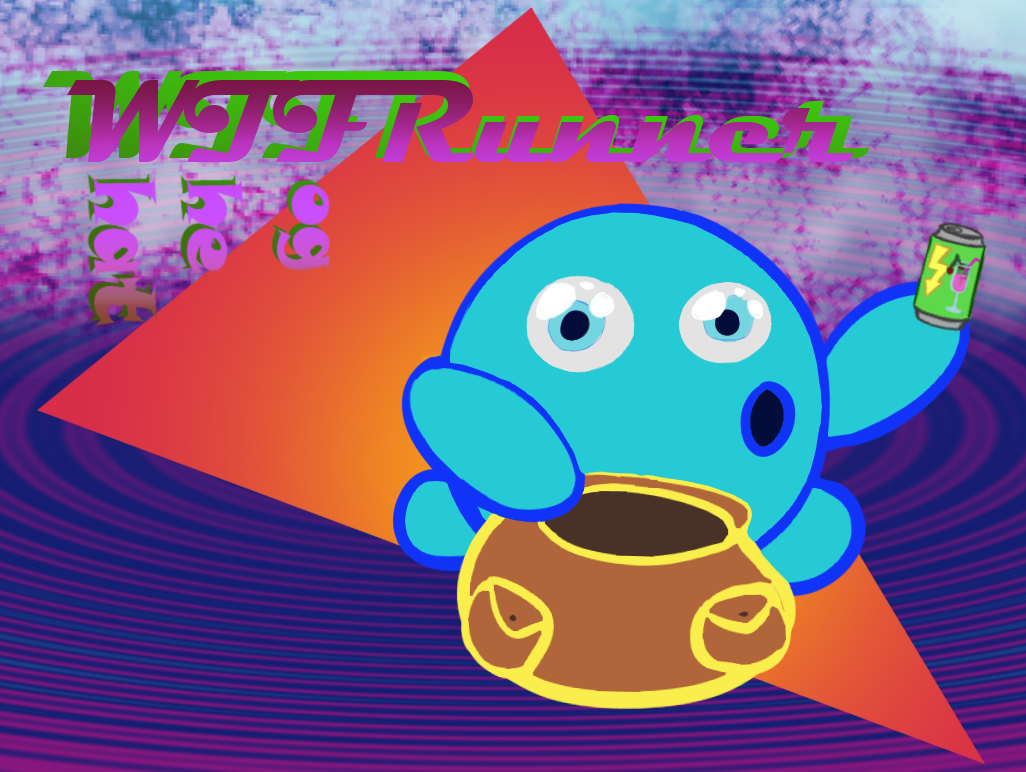
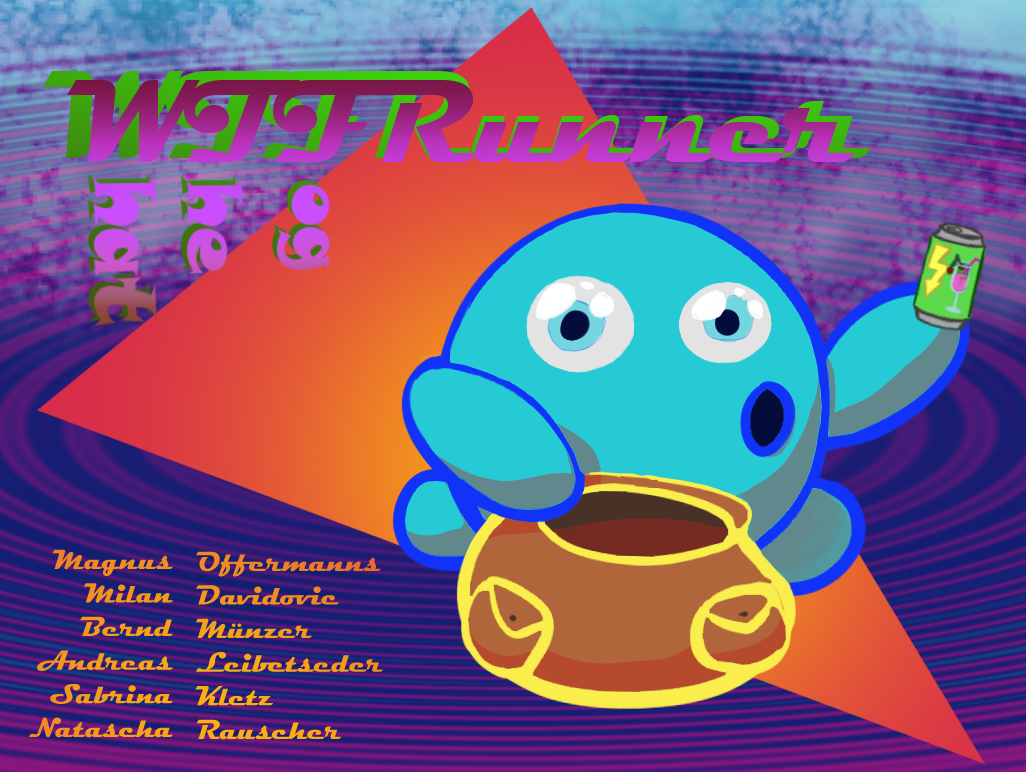
update title

diff --git a/app/scripts/scenes/title.js b/app/scripts/scenes/title.js
@@ -15,11 +15,36 @@ export default class Title extends Phaser.Scene {
    *  @param {object} [data={}] - Initialization parameters.
    */
   create(/* data */) {
+      
     const x_mid = this.cameras.main.width / 2;
     const y_mid = this.cameras.main.height / 2;
 
-    this.add.image(0, 0, 'intro-screen').setOrigin(0).setScale(0.9);
-
+    var introScreen = this.add.image(0, 0, 'intro-screen').setOrigin(0);
+    
+    this.dancingChar = this.add.sprite(introScreen.width/4, introScreen.height/2, 'dance');
+    this.powerUpCan = this.add.sprite(introScreen.width/3, introScreen.height/2, 'powerUp');
+    
+    this.anims.create({
+      key: 'spin_can',
+      frames: this.anims.generateFrameNumbers('powerUp', { start: 0, end: 3 }),
+      frameRate: 10,
+      repeat: -1
+    });
+    
+    this.anims.create({
+      key: 'dance',
+      frames: this.anims.generateFrameNumbers('player', {frames: [1,2,3,2,1,6,5,4,5,6]}),
+      frameRate: 10,
+      repeat: -1
+    });
+    
+    this.powerUpCan.anims.play('spin_can',true);
+    this.powerUpCan.rotation = 0.2;
+    
+    this.dancingChar.anims.play('dance',true);
+    this.dancingChar.rotation = 0.5;
+    
+   
   }
 
   /**
@@ -30,5 +55,8 @@ export default class Title extends Phaser.Scene {
    *  @param {number} dt - Time elapsed since last update.
    */
   update(/* t, dt */) {
+      
+      //this.dancingChar.rotation = this.dancingChar.rotation + 0.01;
+        
   }
 }

diff --git a/app/scripts/scenes/gameover.js b/app/scripts/scenes/gameover.js
@@ -23,7 +23,10 @@ export default class Gameover extends Phaser.Scene {
   create(/* data */) {
     const x_mid = this.cameras.main.width / 2;
     const y_mid = this.cameras.main.height / 2;
-    let msg = 'GAME OVER!\nScore: '+ this.endScore+'';
+    
+    this.add.image(0, 0, 'gameover').setOrigin(0);
+    
+    let msg = 'Score: '+ this.endScore+'';
     const label = this.add.text(x_mid, y_mid, msg, {
       font: '40px Arial',
       color: 'white',
@@ -31,6 +34,7 @@ export default class Gameover extends Phaser.Scene {
       strokeThickness: 6
     });
     label.setOrigin(0.5, 0.5);
+    
     this.gameoverSound = this.sound.add('gameoverSound');
     this.gameoverSound.play();
 
@@ -42,6 +46,7 @@ export default class Gameover extends Phaser.Scene {
     });
     retrylabel.setOrigin(0.5, 0.5).setInteractive();
     retrylabel.on('pointerup', () => this.scene.start('Game'));
+    
   }
 
   /**

diff --git a/app/scripts/objects/player.js b/app/scripts/objects/player.js
@@ -92,7 +92,7 @@ export default class Player extends Phaser.GameObjects.Sprite {
   addPowerUpToBar(offset){
 
 
-    var powerUp = this.scene.physics.add.sprite((this.scene.cameras.main.width - 110) - offset, 40, 'powerUp', 4).setScale(0.5);
+    var powerUp = this.scene.physics.add.sprite((this.scene.cameras.main.width - 110) - offset, 40, 'powerUp').setScale(0.5);
     powerUp.rotation = 0.3;
     powerUp.setScrollFactor(0);
     this.collectSound.play();

diff --git a/app/scripts/assets.js b/app/scripts/assets.js
@@ -18,6 +18,9 @@ export const splashScreenAssets = [{
 }, {
   key: 'intro-screen',
   type: 'image'
+},{
+  key: 'gameover',
+  type: 'image'
 }];
 
 /**
